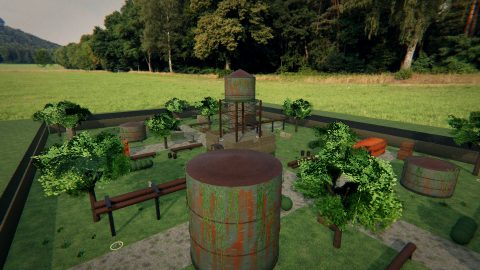
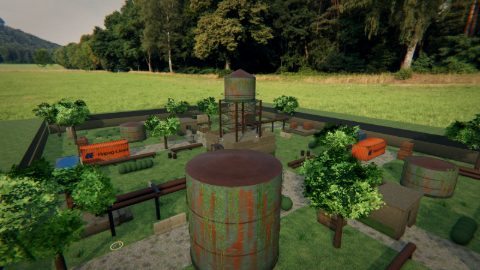
Overgrowth: denser yard, a second building and a raised level per half
Measured against a Black Ops 2 reference map (Raid: ~100 x 95 m core, about half of it built over, levels at
0 / +1 / 3 / 6.5 m), Overgrowth was far too open (16% of the yard had any cover). Each half now has a valve
house you fight through (3 m single storey, doorways at both ends, a valve bank inside), a loading dock a
metre up with steps, another container, a pile of spare pipe and sandbag walls: 21% covered, more and closer
fights in bot matches, clean map audit.

diff --git a/js/overgrowth.js b/js/overgrowth.js
@@ -35,8 +35,8 @@ export const OVERGROWTH = {
     { type: 'health', pos: [-20, 0, 0] },
     { type: 'ammo', pos: [11, 0, 21] },
     { type: 'ammo', pos: [-11, 0, -21] },
-    { type: 'ammo', pos: [27, 0, -21] },
-    { type: 'ammo', pos: [-27, 0, 21] },
+    { type: 'ammo', pos: [28.5, 0, -18.8] },
+    { type: 'ammo', pos: [-28.5, 0, 18.8] },
   ],
   photos: ['assets/loading/overgrowth-1.jpg', 'assets/loading/overgrowth-2.jpg', 'assets/loading/overgrowth-3.jpg'],
   build,
@@ -335,13 +335,48 @@ function build(ctx) {
     K(5.5, 9, 1.6, 1.6, 1.6, 0, 'crate');
     K(6, -9.5, 0.62, 0.62, 0.9, 0, 'barrel'); K(6.8, -10.1, 0.62, 0.62, 0.9, 0, 'barrel');
     K(21.5, 21, 0.62, 0.62, 0.9, 0, 'barrel');
-    K(4, 16, 3.2, 0.9, 1.1, 0, 'jersey'); K(19, -4, 0.9, 3.2, 1.1, 0, 'jersey');
+    K(4, 16, 3.2, 0.9, 1.1, 0, 'jersey'); K(18, -6.5, 0.9, 3.2, 1.1, 0, 'jersey');
     // spawn: staggered HESCO and an ammo crate
     for (const [x, z, w, d] of [[31, -8, 1, 4], [31, 9, 1, 4], [33, -24, 3, 1], [33, 25.5, 3, 1], [30.5, 0, 1, 2.4]]) K(x, z, w, d, 2.2, 0, 'hesco');
     K(37.5, 9, 2, 2, 1.2, 0, 'ammo');
 
+    // the valve house: a one-storey concrete room (3 m, like the yard's other single storeys) with a doorway at
+    // each end, between the mid track and the low tank: a second indoor fight on each half
+    {
+      const [cx, cz] = P(22, -1), VW = 5.4, VD = 4.2, VH = 3.0, T2 = 0.25, DW = 1.4;
+      // long walls (along x) solid; short walls (along z) with a centred doorway
+      for (const sz of [-1, 1]) { solid(cx, cz + sz * VD / 2, VW, T2, VH, 0, 'concrete'); B(M.concrete, VW, VH, T2, cx, 0, cz + sz * VD / 2, 0, { tint: 0xb0aa9a, grime: 0.6 }); }
+      for (const sx of [-1, 1]) {
+        const seg = (VD - DW) / 2;
+        for (const sz of [-1, 1]) { const z = cz + sz * (DW / 2 + seg / 2); solid(cx + sx * VW / 2, z, T2, seg, VH, 0, 'concrete'); B(M.concrete, T2, VH, seg, cx + sx * VW / 2, 0, z, 0, { tint: 0xb0aa9a, grime: 0.6 }); }
+        solid(cx + sx * VW / 2, cz, T2, DW, VH - 2.4, 2.4, 'concrete'); B(M.concrete, T2, VH - 2.4, DW, cx + sx * VW / 2, 2.4, cz, 0, { tint: 0xb0aa9a, grime: 0.6 });
+      }
+      solid(cx, cz, VW + T2, VD + T2, 0.2, VH, 'concrete'); B(M.concrete, VW + 0.5, 0.2, VD + 0.5, cx, VH, cz, 0, { tint: 0x9a968a, grime: 0.5 });
+      // inside: a valve bank along one long wall (waist-high cover), a light
+      solid(cx, cz - s * 1.45, 3.2, 0.7, 1.1, 0, 'metal'); B(M.dark, 3.2, 1.1, 0.7, cx, 0, cz - s * 1.45, 0, { grime: 0.4 });
+      for (const o of [-1, 0, 1]) put(new T.TorusGeometry(0.22, 0.035, 6, 16), M.rust, cx + o * 1, 1.25, cz - s * 1.45, 0, { rx: Math.PI / 2, grime: 0 });
+      put(new T.BoxGeometry(1.0, 0.05, 0.1), tube, cx, VH - 0.15, cz, 0, { grime: 0, cast: false }); glows.push([cx, VH - 0.25, cz, 1.0]);
+      put(new T.PlaneGeometry(VW - 0.4, 1.0), M.moss, cx, 0.5, cz + s * (VD / 2 + T2 / 2 + 0.01), s > 0 ? 0 : Math.PI, { grime: 0, tint: 0xb8c8a0, cast: false });
+    }
+    // the loading dock: a raised slab (+1 m, the yard's second level) with two steps up, crates on top
+    {
+      const [cx, cz] = P(5, 22.5), DWd = 6.5, DD = 4.5;
+      solid(cx, cz, DWd, DD, 1.0, 0, 'concrete'); B(M.concrete, DWd, 1.0, DD, cx, 0, cz, 0, { tint: 0xa8a294, grime: 0.6 });
+      B(M.dark, DWd, 0.12, 0.2, cx, 0.88, cz - s * (DD / 2 + 0.05), 0, { grime: 0.2 });   // the steel edge
+      for (const [k, h] of [[1, 0.5], [0, 1.0]]) { const z = cz - s * (DD / 2 + 0.3 + k * 0.6); solid(cx + s * 2.2, z, 1.6, 0.6, h, 0, 'concrete'); B(M.concrete, 1.6, h, 0.6, cx + s * 2.2, 0, z, 0, { tint: 0x9e988a, grime: 0.5 }); }
+    }
+    K(3.6, 23.3, 1.6, 1.6, 1.6, 1.0, 'crate'); K(6.4, 21.4, 1.3, 1.3, 1.3, 1.0, 'crate');
+    // more hard cover in the open stretches: a container, a pile of spare pipe, sandbags
+    K(6, -24, 7, 2.6, 2.6, 0, 'container', 0x6e7f86);
+    {
+      const [cx, cz] = P(26, -22);
+      solid(cx, cz, 4.4, 1.9, 1.15, 0, 'metal');
+      for (const [o, y] of [[-0.5, 0.3], [0.1, 0.3], [0.7, 0.3], [-0.2, 0.82], [0.4, 0.82]]) put(new T.CylinderGeometry(0.3, 0.3, 4.4, 14), M.rust, cx, y, cz + o * s, 0, { rz: Math.PI / 2, grime: 0.3 });
+    }
+    K(16.5, 0.5, 3, 0.8, 1.1, 0, 'sand'); K(30, 14, 0.8, 3, 1.1, 0, 'sand'); K(11.5, 16.5, 0.8, 3, 1.1, 0, 'sand');
+
     // greenery: alders (London plane builder, tinted young), hedges that hide you without stopping a bullet, ferns
-    for (const [x, z, h] of [[22, 6, 8.5], [6, 22, 9], [26, -23, 9.5], [34, 2, 7.5], [12, -9, 7], [36, -26, 8]]) K(x, z, 0, 0, h, 0, 'tree');
+    for (const [x, z, h] of [[22, 6, 8.5], [12.5, 24.5, 9], [26, -23, 9.5], [34, 2, 7.5], [12, -9, 7], [36, -26, 8]]) K(x, z, 0, 0, h, 0, 'tree');
     const hedge = (x, z, w, d, h) => {
       const [cx, cz] = P(x, z);
       solid(cx, cz, w, d, h, 0, 'cloth').pass = true;
@@ -361,7 +396,7 @@ function build(ctx) {
     // ferns and ground cover, scattered off the tracks
     for (let i = 0; i < (low ? 40 : 110); i++) {
       const x = 2 + rnd() * (HX - 4), z = (rnd() * 2 - 1) * (HZ - 2);
-      if (Math.abs(z) < 3 || Math.abs(x - 14) < 3 || (Math.abs(x) < PH + 2 && Math.abs(z) < PH + 2)) continue;
+      if (Math.abs(z) < 3 || Math.abs(x - 14) < 3 || (Math.abs(x) < PH + 2 && Math.abs(z) < PH + 2) || (Math.abs(x - 22) < 3.5 && Math.abs(z + 1) < 3) || (Math.abs(x - 5) < 4 && Math.abs(z - 22) < 4)) continue;
       const [cx, cz] = P(x, z), sc = 0.5 + rnd() * 0.6, ry = rnd() * Math.PI;
       for (const a of [0, Math.PI / 2]) put(new T.PlaneGeometry(1.4 * sc, 1.0 * sc), M.fern, cx, 0.5 * sc, cz, ry + a, { grime: 0, cast: false, tint: rnd() < 0.5 ? 0xa8c890 : 0xd0e0b0 });
     }

diff --git a/docs/reference.md b/docs/reference.md
@@ -13,7 +13,7 @@ Developed by cbgregg. Keep the servers running: it's a one-man team, so if you e
 | Area | What's included |
 |---|---|
 | Look | Physical sky at dusk (sun 5° above the horizon, deep orange light, very long shadows, violet shade, street lamps casting real light pools), with Mount Rainier glowing in alpenglow on the eastern horizon with image-based lighting, real-time soft shadows, ground-truth ambient occlusion (GTAO), bloom, filmic tone mapping, color grade, vignette, chromatic aberration, film grain, SMAA. Rounded-edge geometry throughout, 4096 shadow maps on High. Photo-scanned PBR materials (albedo + normal + roughness, CC0) for asphalt, concrete, plaster, brick, corrugated steel, painted metal, wood, weathered planks, dirt, cobblestone, sandbags, cloth, HESCO and rubber, with procedural fallbacks. Height fog that hugs the ground and glows toward the sun, drifting dust motes, dust kicked up by sprinting feet and slides. Quality presets Mobile, Low → Ultra (see Performance below) |
-| Maps | Both maps are built for close-quarters fights around corners: lanes are broken by staggered houses, walls, containers and kiosks so nothing gives a straight line from one side to the other (checked automatically for long sightlines), and the divider rows are **enterable houses** with real doorways and window openings you can see and shoot through, tiled floors, shelving, tables and hanging bulbs. Brighter street lamps with pools of light (on High/Ultra each lamp is also a real spotlight that lights walls, players and the street), festoon lights strung across the mid lanes, a few warm point lights (off on Low). Solid blocks and the perimeter have proper windows: recessed glass, painted frames and mullions, stone sills, shutters, curtains and grime streaks. The dressing is a Western town: painted render in greys, off-whites, slate and sage, plenty of brick, steel newsstand kiosks with flat canopies, farmers-market pop-up tents, concrete jersey barriers, stacked interlocking concrete yard blocks round the spawns, street trees; cars are modeled sedans with arches, glass, lights and rims. **Tarsa Market** (116 × 80 m): a classic three-lane map. Spawns at the short ends; a market street (market tents, kiosks, parked cars, the market hall = bomb site B) and the yard (containers, pallets, the warehouse = bomb site A) on the outside, and a mid street into the central plaza, where the centre house with its rooftop and parapets is the power position. The map is point-mirrored, so each team gets the same routes. Two rows of buildings split the lanes, with connectors through a walk-through house, alleys and a gap at the plaza, plus a back street behind each spawn for rotating. Tall cover every 10–14 m means no standing sightline runs a lane end to end (checked automatically: the longest is under 60 m, and fewer than 0.2 % of sightlines are over 45 m). **Pioneer Square** (108 × 80 m): 1st & Yesler on the real street plan. 1st Avenue runs north–south and Yesler Way east–west; Pioneer Place is the triangle east of 1st Ave and north of Yesler, with the iron-and-glass pergola at its south end (over one of the stairs down to the Underground), the totem pole, plane trees and five-globe lamps. The Pioneer Building stands at the downtown grid's 32° angle on the plaza's east side: grey sandstone arcade, red-orange brick in a grid of piers and belt courses, two banded stone piers, cast-iron bays (the rounded corner bay, one over the entrance, one on James St) and the pyramid-roofed tower. James St climbs away at the same angle between it and the "Sinking Ship" garage on the old Seattle Hotel's wedge, and Smith Tower rises up Yesler. The streets are busy enough to fight through: a Metro bus at its stop, box trucks and a streetcar in the lanes, a utility dig with site containers and barriers on Yesler, newsstands on the sidewalks, a food truck and First Thursday art-walk tents on the plaza, and cover at both spawn exits, so no sightline crosses the map (the longest outside the spawn yards is under 45 m). Under the sidewalks is the **Seattle Underground**: after the 1889 fire the district's streets were raised a storey and the old sidewalks and shopfronts were left beneath them as areaways, lit from above by purple glass prism lights set into the new pavement. Here they form a brick-and-timber network 3.3 m down, from the west team's corner (a freight cellar under the bookshop, stairs off the spawn lot) down 1st Avenue's west areaway, through the buried 1st & Yesler intersection (**bomb site A**) and east under Yesler's south sidewalk to a cellar off the east spawn. Two loops come off the long runs (a speakeasy under the Mutual Life Building, a basement under the corner block), so nothing down there is a single hallway, and five stairwells let the street lanes drop in: both spawn lots, the plaza's west edge, the pergola and Occidental Mall. It's about 68 m from the west stairs to site A and 61 m from the east, close to the street routes, so the Underground is a flank, not a shortcut. Narrow passages have their posts against the walls; wider ones have timber posts, crates and junk for cover, and bare bulbs. Site B is the tavern on Yesler. Bots use both levels, taking the stairs. Four of the brick blocks have **enterable ground floors** (stone walls with doorways and shoot-through windows on every street side, exposed-brick interiors, wood floors, pendant lamps): a café in the Mutual Life Building on the corner of 1st & Yesler, a saloon and a corner shop across Yesler, and a bookshop with rows of shelves up 1st Ave. **Link Loop** (280 × 100 m): three Link light rail stations, each walled off from the others, so **the only way between them is the train**. Each station is built differently, after the real one. **Pioneer Square** is a street plaza (a café and a bookshop on the flanks, the totem pole, the old Underground's purple prism skylights in the paving) over a brick-vaulted platform hall: four stairwells go straight down to two side platforms, with cast-iron columns between the tracks, globe pendants and an old brick lift shaft on each platform for cover. **Symphony** is one big indoor hall (the old University Street station by Benaroya Hall): an island platform between the tracks, side halls beyond them where both teams come in, and stone galleries along both walls, joined by two footbridges over the tracks, with stairs up from the island and from each side hall. **Chinatown–International District** is open air at street level, as the real one is: the tracks run out of a tunnel portal in the north row of buildings, past side platforms under steel-and-glass canopies, over a level crossing (its signals flash while a train is near) and into the south portal. A footbridge crosses the north end; the Chinatown gate, market stalls and strings of red lanterns fill both halves of the plaza. Three one-car S70 trains run each way round the loop (Pioneer Square → Symphony → Chinatown and back the other way on the other track) on a timetable: each pulls in, stops with its doors open on the platform side for 15 s (a chime, then the doors close), and pulls out into the tunnel; you're carried with it, up or down to the next station's platforms, and step out there about 23 s later. Arrival boards say where the next train goes and when. You can shoot through the windows, and anyone on the other side can get on the same car, so a ride is a gamble. A moving train kills anyone on its track (including the level crossing), and the tunnel mouths are closed to anyone on foot. One team spawns at Pioneer Square and on Symphony's west side, the other at Chinatown and on Symphony's east side; both bomb sites are at Symphony (the island platform and the north footbridge). Online, every player sees the trains in the same place (they run on the host's clock), and riders are moved with the car in both prediction and the host's hit checks. Bots ride the trains: they wait by a door, board when it opens, and get off at the station they want. **Drive-In** (104 × 72 m, night): a 1950s drive-in theatre at dusk, laid out by a generator (see [Drive-In](#drive-in-and-the-map-generator)). A screen tower at each end shows the feature, *Terror from Planet Z!* (painted by the project owner; `assets/textures/drivein/feature.jpg`); each team spawns in the small lawn yard behind its screen and comes out through the doorway under the screen or the gates in the wing fences. Between the screens, rows of parked 50s cars (fins, two-tone paint, whitewalls) face their screen with speaker posts between them; panel vans, pickups with camper shells and ice-cream and delivery trucks are the tall cover, cars are crouch cover. The snack bar in the middle is the hub: walk-in counter, fridges and menu board inside, stairs up both long sides to the roof and the projection booth, which throws a beam onto both screens. The perimeter road runs past the restrooms, the projection-supply shed, the box office and the marquee with chaser lights; the playground, the popcorn wagon and the "coming attractions" boards are on the lawns under the screens. **Overgrowth** (80 × 56 m, small): a decommissioned pumping station in the Cascade foothills, reclaimed by moss, ferns, alders and ivy, with firs and Mount Rainier beyond the fence. Fast and point-mirrored. The middle is the pump house: a close-quarters room with a doorway on every side and the old pump inside, and a flat roof under a rusted water tower, reached by stairs on two opposite sides, with a low parapet and a firing slot on each end. It sees most of the yard, so it is the power position, and it is open to every lane. Each half has a tall vine-wrapped storage tank, a low tank, a waist-high pipe rack to crouch behind, an overhead pipe bridge that breaks sightlines from the roof, a container stack, valve manifolds, and hedges that hide you but don't stop bullets. Bomb sites sit by each tall tank and by each low tank's container. Bots climb to the roof. **Shuran Yard**: three lanes (market street, yard, container stacks). **Freshway** (indoor): a supermarket laid out like a real one: automatic sliding doors at both entrances, checkout lanes and customer service across the front, an action alley of promo pallets, then nine tall gondola runs (six shelves under a row of overstock cases, 4 ft sections, endcaps) front to back with a cross aisle through the middle, a frozen-food aisle between glass-door freezer runs, the dairy wall, and a produce department of angled display tables, a banana stand, melon and pineapple bins and a misted wet rack, all piled with real 3D fruit and veg (apples, pears, oranges, lemons, limes, tomatoes, peppers, avocados, onions, potatoes, bananas, lettuce, broccoli, carrots...); laid out from the project's concept art: checkouts and customer service along the front; upstairs offices and a break room on a mezzanine over the front corner (a galvanised stair up the outside of the service-alley wall); along the service-alley side, a long bakery & deli glass counter with rack and deck ovens and slicers behind it, then a row of employees-only rooms (kitchen & prep with its own alley door, walk-in cold storage, dry storage) whose roof is a railed catwalk from the offices to a stair down at the far end, overlooking the counter and the aisles; grocery aisles 1–7 with the frozen runs through the middle and produce on the street side; a stock room in the back corner and a strip of receiving, storage and racking rooms along the back wall, with roll-up doors onto the loading yard; beer & wine and seasonal pallets on the open floor between. The street side is all brick with the store's name lit up over the windows. **Doors open and close**: the stockroom and kitchen have stainless traffic doors you push straight through (they swing shut behind you), the staff, fire-exit and office doors are ordinary doors: press Reload / X at one to open or close it, or sprint into it to barge it open; bots open them on their way. Closed doors block movement, sight and bullets (online, the host decides and everyone sees the same doors); each team spawns in a tight two-by-four block: A at the street end of the parking lot, B in the loading yard by the stockroom roll-up. Outside, laid out from concept art: the lot has rows of detailed cars (door shut lines, handles, plates, seats and a steering wheel behind the glass, spoked rims), a delivery van and head-high shipped pallets (slatted pallets, cases in layers, stretch wrap, corner boards, labels); the right lane is a parking strip with a kerb, a street of parallel-parked cars and vans, and raised beds of clipped hedges and flowers; the left lane is the service alley with transformers, HVAC units and green dumpsters; the loading yard has the semi at the dock, two forklifts, blue drums, crate stacks and a fenced pallet compound. The building has a brick base and piers, a dark fascia band with a green stripe, steel canopies over the entrances, wall lights and downspouts. The shop windows are frosted armoured glass: you can't see or shoot through them. Clipped hedges and two rings of trees close the map in, and a heavy haze hides everything beyond. The store's ceiling speakers play bossa-nova muzak (loud inside, faint outside), and a soldier on his smoke break stands by the staff door; nothing in the match touches him. Pick a map (or Random) on the Play tab; online, guests load the host's map, and quick matches rotate randomly. |
+| Maps | Both maps are built for close-quarters fights around corners: lanes are broken by staggered houses, walls, containers and kiosks so nothing gives a straight line from one side to the other (checked automatically for long sightlines), and the divider rows are **enterable houses** with real doorways and window openings you can see and shoot through, tiled floors, shelving, tables and hanging bulbs. Brighter street lamps with pools of light (on High/Ultra each lamp is also a real spotlight that lights walls, players and the street), festoon lights strung across the mid lanes, a few warm point lights (off on Low). Solid blocks and the perimeter have proper windows: recessed glass, painted frames and mullions, stone sills, shutters, curtains and grime streaks. The dressing is a Western town: painted render in greys, off-whites, slate and sage, plenty of brick, steel newsstand kiosks with flat canopies, farmers-market pop-up tents, concrete jersey barriers, stacked interlocking concrete yard blocks round the spawns, street trees; cars are modeled sedans with arches, glass, lights and rims. **Tarsa Market** (116 × 80 m): a classic three-lane map. Spawns at the short ends; a market street (market tents, kiosks, parked cars, the market hall = bomb site B) and the yard (containers, pallets, the warehouse = bomb site A) on the outside, and a mid street into the central plaza, where the centre house with its rooftop and parapets is the power position. The map is point-mirrored, so each team gets the same routes. Two rows of buildings split the lanes, with connectors through a walk-through house, alleys and a gap at the plaza, plus a back street behind each spawn for rotating. Tall cover every 10–14 m means no standing sightline runs a lane end to end (checked automatically: the longest is under 60 m, and fewer than 0.2 % of sightlines are over 45 m). **Pioneer Square** (108 × 80 m): 1st & Yesler on the real street plan. 1st Avenue runs north–south and Yesler Way east–west; Pioneer Place is the triangle east of 1st Ave and north of Yesler, with the iron-and-glass pergola at its south end (over one of the stairs down to the Underground), the totem pole, plane trees and five-globe lamps. The Pioneer Building stands at the downtown grid's 32° angle on the plaza's east side: grey sandstone arcade, red-orange brick in a grid of piers and belt courses, two banded stone piers, cast-iron bays (the rounded corner bay, one over the entrance, one on James St) and the pyramid-roofed tower. James St climbs away at the same angle between it and the "Sinking Ship" garage on the old Seattle Hotel's wedge, and Smith Tower rises up Yesler. The streets are busy enough to fight through: a Metro bus at its stop, box trucks and a streetcar in the lanes, a utility dig with site containers and barriers on Yesler, newsstands on the sidewalks, a food truck and First Thursday art-walk tents on the plaza, and cover at both spawn exits, so no sightline crosses the map (the longest outside the spawn yards is under 45 m). Under the sidewalks is the **Seattle Underground**: after the 1889 fire the district's streets were raised a storey and the old sidewalks and shopfronts were left beneath them as areaways, lit from above by purple glass prism lights set into the new pavement. Here they form a brick-and-timber network 3.3 m down, from the west team's corner (a freight cellar under the bookshop, stairs off the spawn lot) down 1st Avenue's west areaway, through the buried 1st & Yesler intersection (**bomb site A**) and east under Yesler's south sidewalk to a cellar off the east spawn. Two loops come off the long runs (a speakeasy under the Mutual Life Building, a basement under the corner block), so nothing down there is a single hallway, and five stairwells let the street lanes drop in: both spawn lots, the plaza's west edge, the pergola and Occidental Mall. It's about 68 m from the west stairs to site A and 61 m from the east, close to the street routes, so the Underground is a flank, not a shortcut. Narrow passages have their posts against the walls; wider ones have timber posts, crates and junk for cover, and bare bulbs. Site B is the tavern on Yesler. Bots use both levels, taking the stairs. Four of the brick blocks have **enterable ground floors** (stone walls with doorways and shoot-through windows on every street side, exposed-brick interiors, wood floors, pendant lamps): a café in the Mutual Life Building on the corner of 1st & Yesler, a saloon and a corner shop across Yesler, and a bookshop with rows of shelves up 1st Ave. **Link Loop** (280 × 100 m): three Link light rail stations, each walled off from the others, so **the only way between them is the train**. Each station is built differently, after the real one. **Pioneer Square** is a street plaza (a café and a bookshop on the flanks, the totem pole, the old Underground's purple prism skylights in the paving) over a brick-vaulted platform hall: four stairwells go straight down to two side platforms, with cast-iron columns between the tracks, globe pendants and an old brick lift shaft on each platform for cover. **Symphony** is one big indoor hall (the old University Street station by Benaroya Hall): an island platform between the tracks, side halls beyond them where both teams come in, and stone galleries along both walls, joined by two footbridges over the tracks, with stairs up from the island and from each side hall. **Chinatown–International District** is open air at street level, as the real one is: the tracks run out of a tunnel portal in the north row of buildings, past side platforms under steel-and-glass canopies, over a level crossing (its signals flash while a train is near) and into the south portal. A footbridge crosses the north end; the Chinatown gate, market stalls and strings of red lanterns fill both halves of the plaza. Three one-car S70 trains run each way round the loop (Pioneer Square → Symphony → Chinatown and back the other way on the other track) on a timetable: each pulls in, stops with its doors open on the platform side for 15 s (a chime, then the doors close), and pulls out into the tunnel; you're carried with it, up or down to the next station's platforms, and step out there about 23 s later. Arrival boards say where the next train goes and when. You can shoot through the windows, and anyone on the other side can get on the same car, so a ride is a gamble. A moving train kills anyone on its track (including the level crossing), and the tunnel mouths are closed to anyone on foot. One team spawns at Pioneer Square and on Symphony's west side, the other at Chinatown and on Symphony's east side; both bomb sites are at Symphony (the island platform and the north footbridge). Online, every player sees the trains in the same place (they run on the host's clock), and riders are moved with the car in both prediction and the host's hit checks. Bots ride the trains: they wait by a door, board when it opens, and get off at the station they want. **Drive-In** (104 × 72 m, night): a 1950s drive-in theatre at dusk, laid out by a generator (see [Drive-In](#drive-in-and-the-map-generator)). A screen tower at each end shows the feature, *Terror from Planet Z!* (painted by the project owner; `assets/textures/drivein/feature.jpg`); each team spawns in the small lawn yard behind its screen and comes out through the doorway under the screen or the gates in the wing fences. Between the screens, rows of parked 50s cars (fins, two-tone paint, whitewalls) face their screen with speaker posts between them; panel vans, pickups with camper shells and ice-cream and delivery trucks are the tall cover, cars are crouch cover. The snack bar in the middle is the hub: walk-in counter, fridges and menu board inside, stairs up both long sides to the roof and the projection booth, which throws a beam onto both screens. The perimeter road runs past the restrooms, the projection-supply shed, the box office and the marquee with chaser lights; the playground, the popcorn wagon and the "coming attractions" boards are on the lawns under the screens. **Overgrowth** (80 × 56 m, small): a decommissioned pumping station in the Cascade foothills, reclaimed by moss, ferns, alders and ivy, with firs and Mount Rainier beyond the fence. Fast and point-mirrored. The middle is the pump house: a close-quarters room with a doorway on every side and the old pump inside, and a flat roof under a rusted water tower, reached by stairs on two opposite sides, with a low parapet and a firing slot on each end. It sees most of the yard, so it is the power position, and it is open to every lane. Each half has a tall vine-wrapped storage tank, a low tank, a waist-high pipe rack to crouch behind, an overhead pipe bridge that breaks sightlines from the roof, a container stack, valve manifolds, and hedges that hide you but don't stop bullets. Each half also has a valve house (a one-storey room with a doorway at each end and a valve bank inside) and a loading dock raised a metre with steps up, the yard's second level. Bomb sites sit by each tall tank and by each low tank's container. Bots climb to the roof. **Shuran Yard**: three lanes (market street, yard, container stacks). **Freshway** (indoor): a supermarket laid out like a real one: automatic sliding doors at both entrances, checkout lanes and customer service across the front, an action alley of promo pallets, then nine tall gondola runs (six shelves under a row of overstock cases, 4 ft sections, endcaps) front to back with a cross aisle through the middle, a frozen-food aisle between glass-door freezer runs, the dairy wall, and a produce department of angled display tables, a banana stand, melon and pineapple bins and a misted wet rack, all piled with real 3D fruit and veg (apples, pears, oranges, lemons, limes, tomatoes, peppers, avocados, onions, potatoes, bananas, lettuce, broccoli, carrots...); laid out from the project's concept art: checkouts and customer service along the front; upstairs offices and a break room on a mezzanine over the front corner (a galvanised stair up the outside of the service-alley wall); along the service-alley side, a long bakery & deli glass counter with rack and deck ovens and slicers behind it, then a row of employees-only rooms (kitchen & prep with its own alley door, walk-in cold storage, dry storage) whose roof is a railed catwalk from the offices to a stair down at the far end, overlooking the counter and the aisles; grocery aisles 1–7 with the frozen runs through the middle and produce on the street side; a stock room in the back corner and a strip of receiving, storage and racking rooms along the back wall, with roll-up doors onto the loading yard; beer & wine and seasonal pallets on the open floor between. The street side is all brick with the store's name lit up over the windows. **Doors open and close**: the stockroom and kitchen have stainless traffic doors you push straight through (they swing shut behind you), the staff, fire-exit and office doors are ordinary doors: press Reload / X at one to open or close it, or sprint into it to barge it open; bots open them on their way. Closed doors block movement, sight and bullets (online, the host decides and everyone sees the same doors); each team spawns in a tight two-by-four block: A at the street end of the parking lot, B in the loading yard by the stockroom roll-up. Outside, laid out from concept art: the lot has rows of detailed cars (door shut lines, handles, plates, seats and a steering wheel behind the glass, spoked rims), a delivery van and head-high shipped pallets (slatted pallets, cases in layers, stretch wrap, corner boards, labels); the right lane is a parking strip with a kerb, a street of parallel-parked cars and vans, and raised beds of clipped hedges and flowers; the left lane is the service alley with transformers, HVAC units and green dumpsters; the loading yard has the semi at the dock, two forklifts, blue drums, crate stacks and a fenced pallet compound. The building has a brick base and piers, a dark fascia band with a green stripe, steel canopies over the entrances, wall lights and downspouts. The shop windows are frosted armoured glass: you can't see or shoot through them. Clipped hedges and two rings of trees close the map in, and a heavy haze hides everything beyond. The store's ceiling speakers play bossa-nova muzak (loud inside, faint outside), and a soldier on his smoke break stands by the staff door; nothing in the match touches him. Pick a map (or Random) on the Play tab; online, guests load the host's map, and quick matches rotate randomly. |
 | Breaching | The maps have parts you break through, so a fight isn't only about doorways: a share of the houses' windows are **glazed** (the first bullet shatters the pane with a crash and a shower of glass, and flies on through; so does a kick or any blast nearby) or **boarded up** (planks nailed over the opening: kick them in with melee, put a few rounds through them, or let a grenade do it), and now and then a doorway is boarded over where the house has another way in, so it's a shortcut you make. Melee at a shut door **kicks it in**: it flies open and anyone just behind it is thrown back and stunned for a moment. Bots kick through boards and glass in their way. Online, the host decides what breaks and every player sees the same holes (late joiners too) |
 | Operators | Rigged, textured soldier model with motion-captured idle/walk/run animation, blended by speed; legs turn toward movement while the upper body stays on the aim; IK arms grip each weapon's pistol grip and foregrip. Procedural motion on top of the clips: one shared gait phase so walk/run blend without double-stepping and stride matches ground speed, spring-driven lean into acceleration and turns, landing compression and airborne tuck, hit flinches in the direction of each shot (head snaps on headshots), and **ragdoll deaths** (verlet skeleton seeded with the body's momentum and the killing shot's impulse, colliding with the ground and nearby cover; the gun tumbles free). The same rig provides the first-person arms and gloves (longer than life, as in every shooter, so both hands sit on the grip and foregrip; fingers close around the gun, the gun cants in during reloads so you see the hands work the magazine). Falls back to procedural operators if the model can't load |
 | Weapons | Guns built from real side-profile silhouettes with rounded edges, lathed barrels, muzzle devices and scopes. Primaries: MK-4 Carbine, KV-47, BR-308, HX-60 LMG, VX-9 SMG, KRV-45, M12 pump shotgun, SA-12 drum auto-shotgun, MR-14 marksman rifle, LR-50 bolt-action. Secondaries: P-45, D-50, R-357 revolver, MP-18 machine pistol and **The Monte** rocket launcher (splash damage, smoke trail). Each of the newer guns has its own dedicated model (`js/gunbuilds.js`): the KV-47 is a stamped AK with wood furniture and a bakelite banana mag, the BR-308 a tan monolithic-upper battle rifle with a folding stock, the HX-60 a belt-fed LMG with an ammo pouch, belt, heat shield and folded bipod, the KRV-45 a Vector-style SMG, the MR-14 a wood-stocked DMR, the SA-12 a boxy drum-fed auto shotgun, the D-50 a hand cannon, the R-357 a fluted-cylinder revolver and the MP-18 a machine pistol with a folding front grip. The Monte aims through a holographic sight on a bracket left of the tube, so the tube sits beside your view instead of blocking it; firing kicks hard and throws a backblast out of the venturi, the warhead leaves the tube with the shot, and reloading swings the launcher down to the left while your hand brings a new rocket up and slides it into the muzzle. Lethal and tactical equipment (below), melee. Detailed models with glowing reticles, animated magazine reloads (faster tactical reloads), pump and bolt cycling, ejected brass, recoil with recovery, ADS breathing sway (hold breath on the sniper), damage falloff, headshots |
